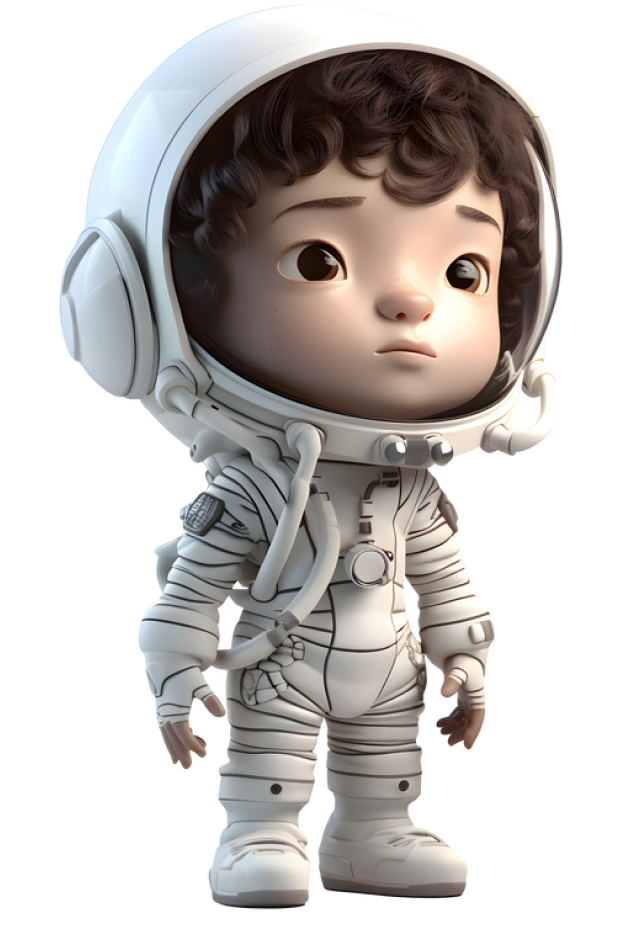
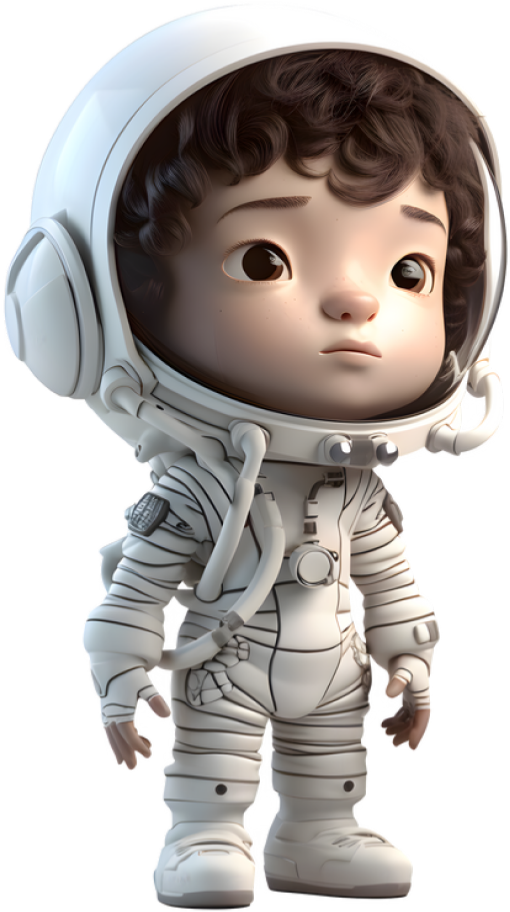
metadata changed to get image

diff --git a/src/app/layout.tsx b/src/app/layout.tsx
@@ -5,6 +5,28 @@ import Providers from "./Providers";
 
 const inter = Inter({ subsets: ["latin"] });
 
+export const metadata: Metadata = {
+  title: "Consize GPT | Resumenes de audio con IA",
+  openGraph: {
+    images: "/assets/astronaut1.png",
+  },
+  description: "Haz resúmenes de tus audios en unos segundos",
+  keywords: "summary, chatgpt, gpt, gpt3, ai",
+  robots: {
+    index: true,
+    follow: true,
+    nocache: true,
+    googleBot: {
+      index: true,
+      follow: true,
+      noimageindex: true,
+      "max-video-preview": -1,
+      "max-image-preview": "large",
+      "max-snippet": -1,
+    },
+  },
+};
+
 export default function RootLayout({
   children,
 }: {

diff --git a/src/app/landing/layout.tsx b/src/app/landing/layout.tsx
@@ -1,8 +1,12 @@
 import { Header } from "@/components";
 import styles from "./landing.module.css";
+import { Metadata } from "next";
 
-export const metadata = {
+export const metadata: Metadata = {
   title: "Consize GPT | Resumenes de audio con IA",
+  openGraph: {
+    images: "/assets/astronaut1.png",
+  },
   description: "Haz resúmenes de tus audios en unos segundos",
   keywords: "summary, chatgpt, gpt, gpt3, ai",
   robots: {
